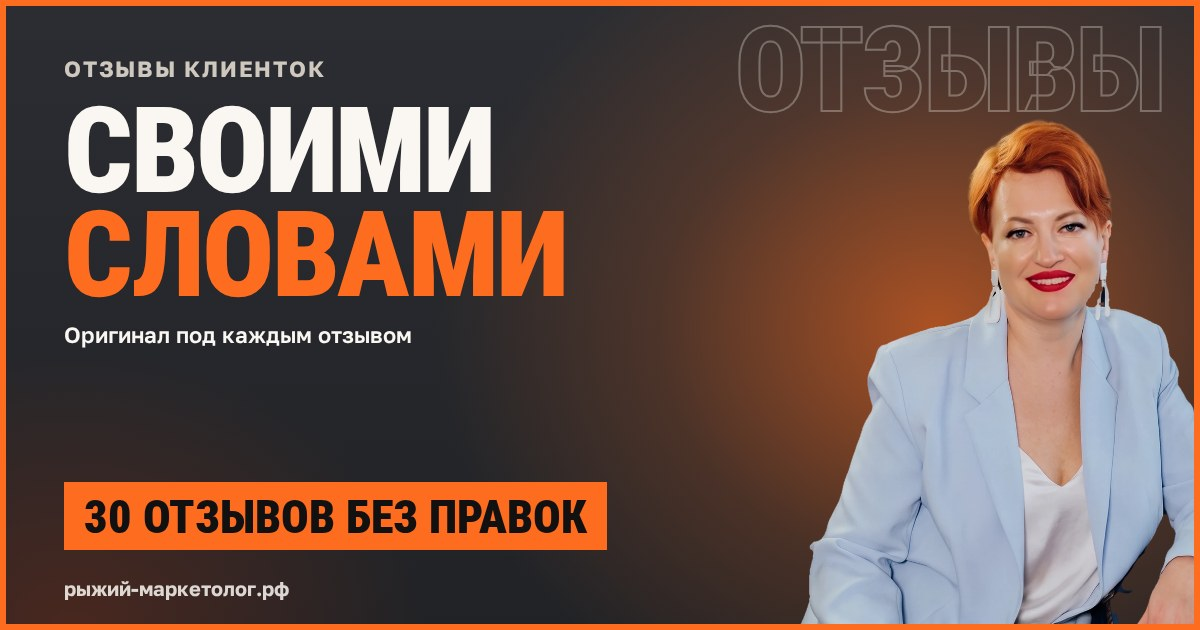
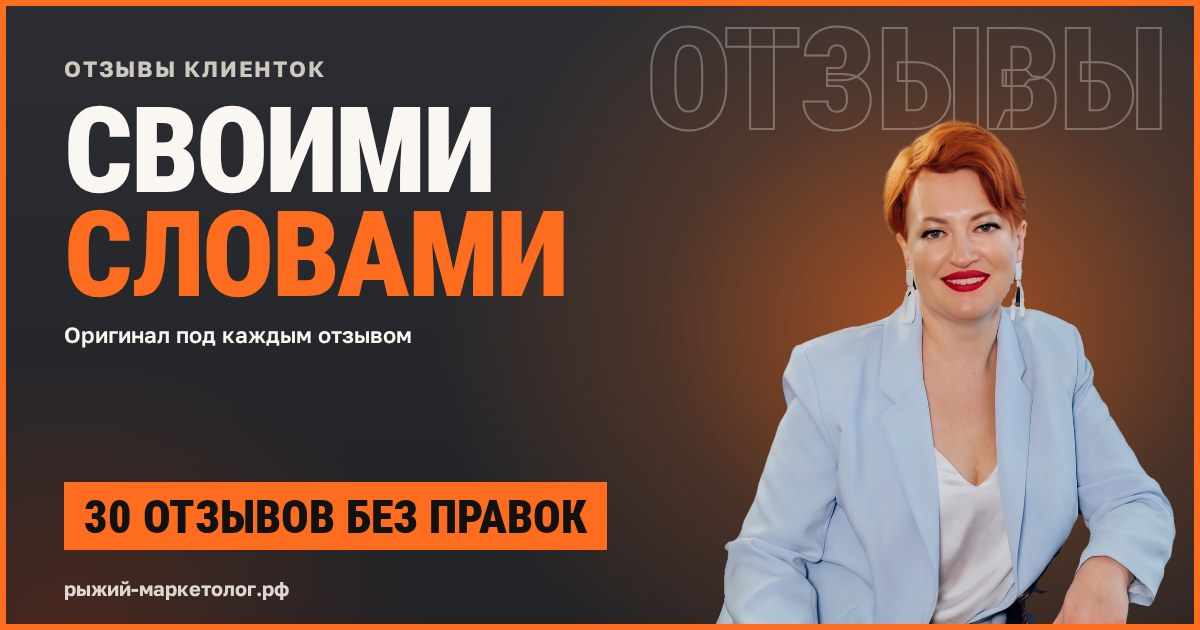
OG «Отзывы»: фигура целиком в рамке, отступ справа как у «Распаковки»
Вырез N40 шире ячейки (локоть на подлокотнике), и формула отступа
выталкивала его на 61 px за правый край. В шаблоне необязательный fx —
точный отступ справа; у «Отзывов» fx:24, высота фигуры 760 (лицо прежнее).
Правый край фигуры 1175 px, как у «Распаковки». ?v=20261023-n40b,
check-og.py: 0 ошибок.

Claude-Session: https://claude.ai/code/session_011L8x4ubt6M66K2YLfJQJ7S

Changed region(s): [[0.555, 0.0302, 1.0, 0.9952]]

diff --git a/specs/005-og-cards/og-template.html b/specs/005-og-cards/og-template.html
@@ -61,7 +61,7 @@ const C=ev=>{
    sub:nw.length?nw[0].time+' · Контур.Толк':'',acc:nw.slice(0,2).map(e=>day(e.start)).join(' и ')},
  'vebinar-uznavaemost':{img:'../../assets/img/vu-duo-1600.webp',fh:512,fr:24,gx:'74%',echo:'стиль',k:'Практический вебинар',h:'Чтобы тебя<br><em>запоминали</em>',
    sub:(vu?rub(vu.price):'')+' · с Анной Шиндиной',acc:vu?day(vu.start)+' · '+msk(vu.start,{hour:'2-digit',minute:'2-digit'})+' МСК':''},
- 'otzyvy':{img:CUT('otzyvy-n40-armchair'),fh:760,fr:20,echo:'отзывы',k:'Отзывы клиенток',h:'Своими<br><em>словами</em>',sub:'Оригинал под каждым отзывом',acc:'30 отзывов без правок'},
+ 'otzyvy':{img:CUT('otzyvy-n40-armchair'),fh:760,fr:20,fx:24,echo:'отзывы',k:'Отзывы клиенток',h:'Своими<br><em>словами</em>',sub:'Оригинал под каждым отзывом',acc:'30 отзывов без правок'},
  'raspakovka':{img:CUT('raspakovka-game-host'),fh:660,fr:30,echo:'игра',k:'Игра «Путь гениальности»',h:'Распаковка<br><em>личности</em>',sub:'2–4 часа · лично 10 000'+R,acc:'5 000'+R+' в группе'},
  'razvitie':{img:CUT('rv-n15'),fh:740,fr:0,echo:'рост',k:'Наставник · 20+ лет в маркетинге',h:'Развитие<br>личного <em>бренда</em>',sub:'Консультация, мастер-группа, сопровождение',acc:'от 10 000'+R},
  'pozicionirovanie':{img:CUT('nf-silk-l4'),fh:900,fr:40,echo:'смысл',k:'Статья',h:'Своё<br><em>позиционирование</em>',sub:'Вопросы и пример из практики',acc:'Больше подписчиков и клиентов'},
@@ -76,7 +76,7 @@ const C=ev=>{
  k.textContent=c.k; h.innerHTML=c.h; sub.innerHTML=c.sub; if(!c.sub) sub.remove(); acc.innerHTML=c.acc; if(!c.acc) acc.remove();
  echo.textContent=c.echo;
  await fig.decode(); await document.fonts.ready;
- const fw=fig.getBoundingClientRect().width; fig.style.right=Math.min(c.fr,1200-(64+TEXT_W+28)-fw)+'px';
+ const fw=fig.getBoundingClientRect().width; fig.style.right=(c.fx!=null?c.fx:Math.min(c.fr,1200-(64+TEXT_W+28)-fw))+'px';   // fx — точный отступ справа для широкой фигуры (локоть на подлокотнике), иначе формула выталкивает её за рамку
  const fl=fig.getBoundingClientRect().left;
  // заголовок и акцент не заходят на фигуру: кегль подгоняется под ширину до её левого края (минус 28 px)
  const maxW=Math.min(TEXT_W,fl-64-28); let fs=parseFloat(getComputedStyle(h).fontSize); while(h.scrollWidth>maxW&&fs>56){fs-=2;h.style.fontSize=fs+'px'}

diff --git a/otzyvy/index.html b/otzyvy/index.html
@@ -13,8 +13,8 @@
 <meta property="og:url" content="https://xn----8sbjhcmhkkgzbpg6a9j.xn--p1ai/otzyvy/">
 <meta property="og:title" content="Отзывы о работе с Валентиной Сухаревой">
 <meta property="og:description" content="30 отзывов клиенток: мастер-группа, мастермайнды, вебинары, обучение, консультации, игра «Путь гениальности». Оригинал — под каждым отзывом, без правок.">
-<meta property="og:image" content="https://xn----8sbjhcmhkkgzbpg6a9j.xn--p1ai/assets/img/og-otzyvy.jpg?v=20261023-n40">
-<meta property="og:image:secure_url" content="https://xn----8sbjhcmhkkgzbpg6a9j.xn--p1ai/assets/img/og-otzyvy.jpg?v=20261023-n40">
+<meta property="og:image" content="https://xn----8sbjhcmhkkgzbpg6a9j.xn--p1ai/assets/img/og-otzyvy.jpg?v=20261023-n40b">
+<meta property="og:image:secure_url" content="https://xn----8sbjhcmhkkgzbpg6a9j.xn--p1ai/assets/img/og-otzyvy.jpg?v=20261023-n40b">
 <meta property="og:image:type" content="image/jpeg">
 <meta property="og:image:width" content="1200">
 <meta property="og:image:height" content="630">
@@ -22,7 +22,7 @@
 <meta name="twitter:card" content="summary_large_image">
 <meta name="twitter:title" content="Отзывы о работе с Валентиной Сухаревой">
 <meta name="twitter:description" content="30 отзывов клиенток: мастер-группа, мастермайнды, вебинары, обучение, консультации, игра «Путь гениальности». Оригинал — под каждым отзывом, без правок.">
-<meta name="twitter:image" content="https://xn----8sbjhcmhkkgzbpg6a9j.xn--p1ai/assets/img/og-otzyvy.jpg?v=20261023-n40">
+<meta name="twitter:image" content="https://xn----8sbjhcmhkkgzbpg6a9j.xn--p1ai/assets/img/og-otzyvy.jpg?v=20261023-n40b">
 <meta name="twitter:image:alt" content="Отзывы своими словами: 30 отзывов клиенток без правок. Валентина Сухарева.">
 <link rel="icon" href="/favicon.svg" type="image/svg+xml">
 <link rel="icon" href="/assets/img/favicon-32.png" sizes="32x32" type="image/png">

diff --git a/specs/005-og-cards/apply-og.py b/specs/005-og-cards/apply-og.py
@@ -32,7 +32,7 @@ P = {
    img=('og-vebinar-uznavaemost.jpg' + V, 'Как сделать так, чтобы тебя запоминали. Практический вебинар 29 октября, 15:00 МСК, 1 500 ₽. Валентина Сухарева и Анна Шиндина.')),
  'otzyvy/index.html': dict(url='/otzyvy/', t='Отзывы о работе с Валентиной Сухаревой',
    d='30 отзывов клиенток: мастер-группа, мастермайнды, вебинары, обучение, консультации, игра «Путь гениальности». Оригинал — под каждым отзывом, без правок.',
-   img=('og-otzyvy.jpg?v=20261023-n40', 'Отзывы своими словами: 30 отзывов клиенток без правок. Валентина Сухарева.')),
+   img=('og-otzyvy.jpg?v=20261023-n40b', 'Отзывы своими словами: 30 отзывов клиенток без правок. Валентина Сухарева.')),
  'raspakovka-lichnosti/index.html': dict(url='/raspakovka-lichnosti/', t='Распаковка личности эксперта',
    d='Игра «Путь гениальности»: за 2–4 часа находим вашу уникальность и собираем позиционирование в одно предложение. В группе 5 000 ₽, лично 10 000 ₽.',
    img=('og-raspakovka.jpg' + V, 'Распаковка личности. Игра «Путь гениальности», в группе 5 000 ₽, лично 10 000 ₽. Валентина Сухарева.')),
